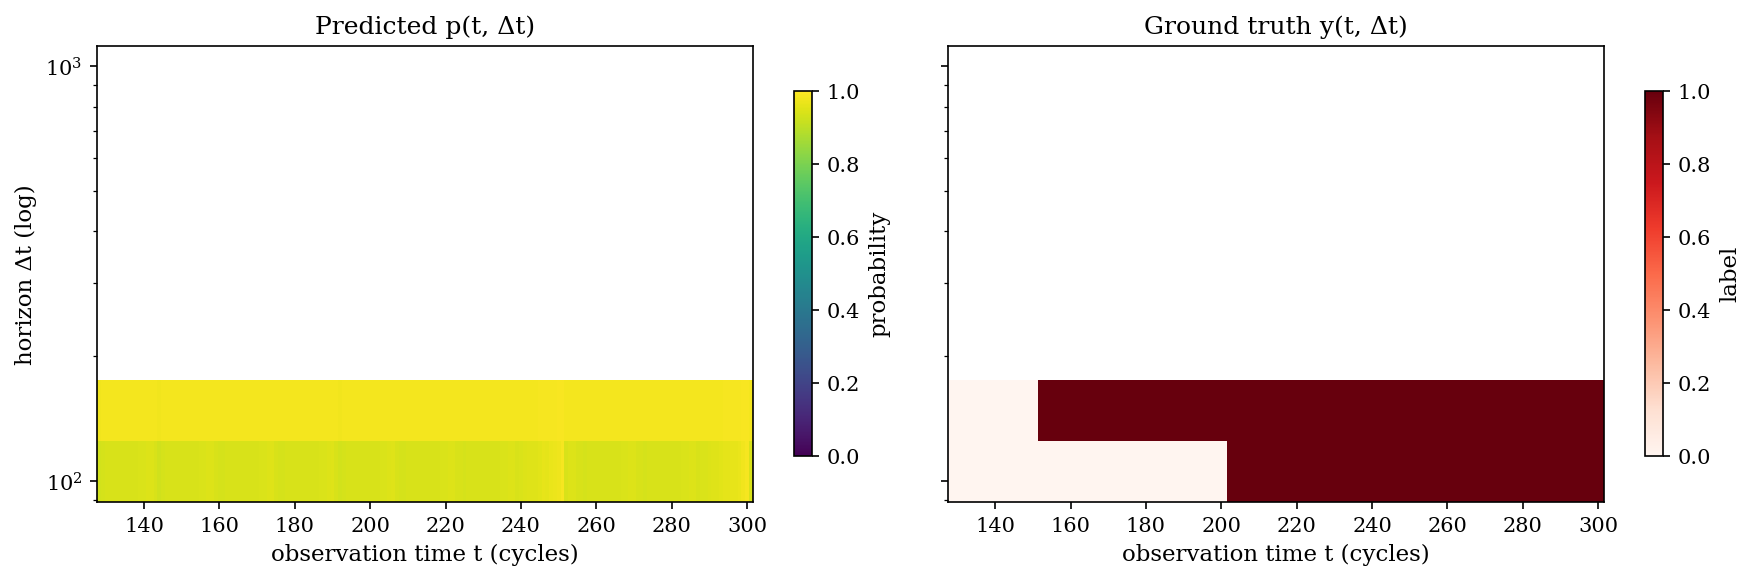
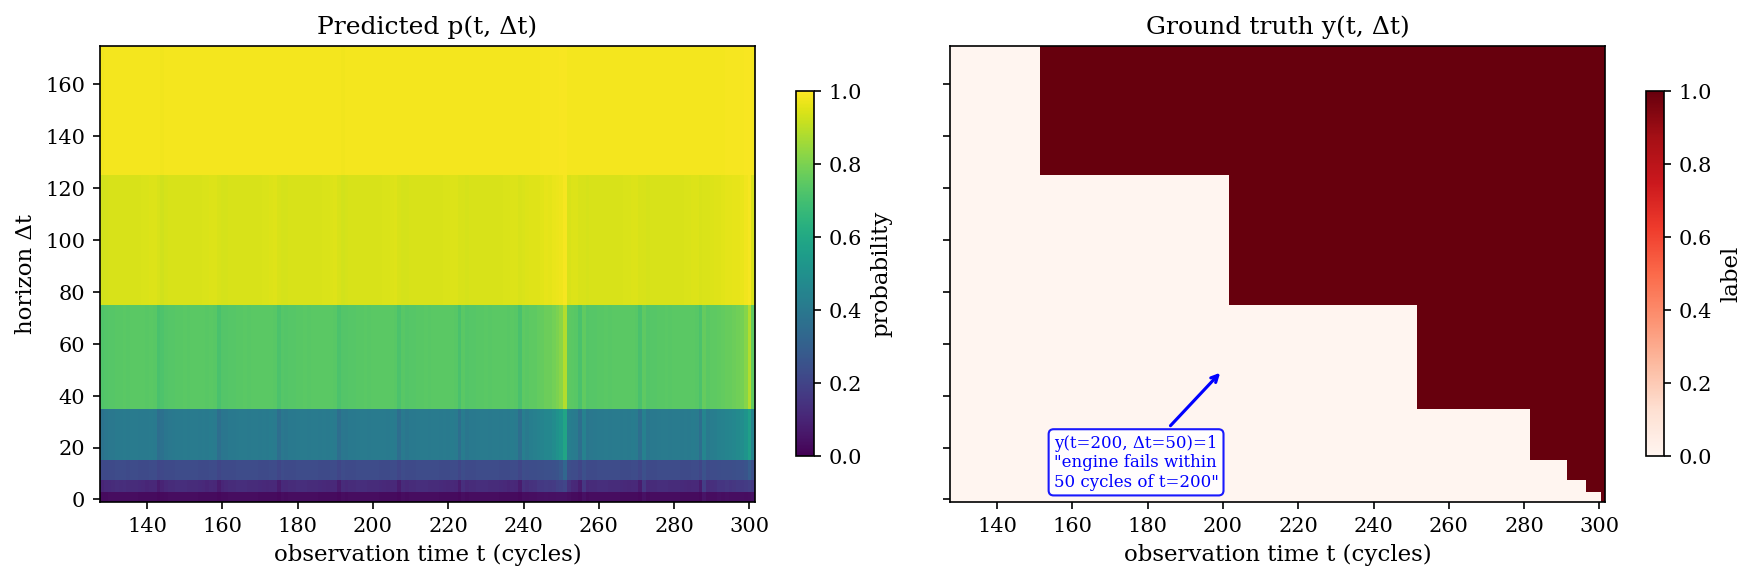
metric notebook: linear y-axis for surface plots (more honest)

diff --git a/fam-jepa/notebooks/28_metric_analysis.html b/fam-jepa/notebooks/28_metric_analysis.html
@@ -212,32 +212,31 @@ window.Quarto = {
 <span id="cb2-5"><a href="#cb2-5" aria-hidden="true" tabindex="-1"></a>fig, axes <span class="op">=</span> plt.subplots(<span class="dv">1</span>, <span class="dv">2</span>, figsize<span class="op">=</span>(<span class="dv">12</span>, <span class="dv">4</span>), sharey<span class="op">=</span><span class="va">True</span>)</span>
 <span id="cb2-6"><a href="#cb2-6" aria-hidden="true" tabindex="-1"></a></span>
 <span id="cb2-7"><a href="#cb2-7" aria-hidden="true" tabindex="-1"></a>im0 <span class="op">=</span> axes[<span class="dv">0</span>].pcolormesh(t_eng, h, p_eng.T, cmap<span class="op">=</span><span class="st">'viridis'</span>, vmin<span class="op">=</span><span class="dv">0</span>, vmax<span class="op">=</span><span class="dv">1</span>, shading<span class="op">=</span><span class="st">'auto'</span>)</span>
-<span id="cb2-8"><a href="#cb2-8" aria-hidden="true" tabindex="-1"></a>axes[<span class="dv">0</span>].set_yscale(<span class="st">'log'</span>)<span class="op">;</span> axes[<span class="dv">0</span>].set_ylabel(<span class="st">'horizon Δt (log)'</span>)</span>
+<span id="cb2-8"><a href="#cb2-8" aria-hidden="true" tabindex="-1"></a>axes[<span class="dv">0</span>].set_ylabel(<span class="st">'horizon Δt'</span>)</span>
 <span id="cb2-9"><a href="#cb2-9" aria-hidden="true" tabindex="-1"></a>axes[<span class="dv">0</span>].set_xlabel(<span class="st">'observation time t (cycles)'</span>)</span>
 <span id="cb2-10"><a href="#cb2-10" aria-hidden="true" tabindex="-1"></a>axes[<span class="dv">0</span>].set_title(<span class="st">'Predicted p(t, Δt)'</span>)</span>
 <span id="cb2-11"><a href="#cb2-11" aria-hidden="true" tabindex="-1"></a>fig.colorbar(im0, ax<span class="op">=</span>axes[<span class="dv">0</span>], label<span class="op">=</span><span class="st">'probability'</span>, shrink<span class="op">=</span><span class="fl">0.8</span>)</span>
 <span id="cb2-12"><a href="#cb2-12" aria-hidden="true" tabindex="-1"></a></span>
 <span id="cb2-13"><a href="#cb2-13" aria-hidden="true" tabindex="-1"></a>im1 <span class="op">=</span> axes[<span class="dv">1</span>].pcolormesh(t_eng, h, y_eng.T, cmap<span class="op">=</span><span class="st">'Reds'</span>, vmin<span class="op">=</span><span class="dv">0</span>, vmax<span class="op">=</span><span class="dv">1</span>, shading<span class="op">=</span><span class="st">'auto'</span>)</span>
-<span id="cb2-14"><a href="#cb2-14" aria-hidden="true" tabindex="-1"></a>axes[<span class="dv">1</span>].set_yscale(<span class="st">'log'</span>)</span>
-<span id="cb2-15"><a href="#cb2-15" aria-hidden="true" tabindex="-1"></a>axes[<span class="dv">1</span>].set_xlabel(<span class="st">'observation time t (cycles)'</span>)</span>
-<span id="cb2-16"><a href="#cb2-16" aria-hidden="true" tabindex="-1"></a>axes[<span class="dv">1</span>].set_title(<span class="st">'Ground truth y(t, Δt)'</span>)</span>
-<span id="cb2-17"><a href="#cb2-17" aria-hidden="true" tabindex="-1"></a>fig.colorbar(im1, ax<span class="op">=</span>axes[<span class="dv">1</span>], label<span class="op">=</span><span class="st">'label'</span>, shrink<span class="op">=</span><span class="fl">0.8</span>)</span>
-<span id="cb2-18"><a href="#cb2-18" aria-hidden="true" tabindex="-1"></a></span>
-<span id="cb2-19"><a href="#cb2-19" aria-hidden="true" tabindex="-1"></a><span class="co"># Annotate one cell</span></span>
-<span id="cb2-20"><a href="#cb2-20" aria-hidden="true" tabindex="-1"></a>axes[<span class="dv">1</span>].annotate(<span class="st">'y(t=200, Δt=50)=1</span><span class="ch">\n</span><span class="st">"engine fails within</span><span class="ch">\n</span><span class="st">50 cycles of t=200"'</span>,</span>
-<span id="cb2-21"><a href="#cb2-21" aria-hidden="true" tabindex="-1"></a>                 xy<span class="op">=</span>(<span class="dv">200</span>, <span class="dv">50</span>), fontsize<span class="op">=</span><span class="dv">8</span>,</span>
-<span id="cb2-22"><a href="#cb2-22" aria-hidden="true" tabindex="-1"></a>                 arrowprops<span class="op">=</span><span class="bu">dict</span>(arrowstyle<span class="op">=</span><span class="st">'-&gt;'</span>, color<span class="op">=</span><span class="st">'blue'</span>, lw<span class="op">=</span><span class="fl">1.5</span>),</span>
-<span id="cb2-23"><a href="#cb2-23" aria-hidden="true" tabindex="-1"></a>                 xytext<span class="op">=</span>(<span class="dv">155</span>, <span class="dv">5</span>), color<span class="op">=</span><span class="st">'blue'</span>,</span>
-<span id="cb2-24"><a href="#cb2-24" aria-hidden="true" tabindex="-1"></a>                 bbox<span class="op">=</span><span class="bu">dict</span>(fc<span class="op">=</span><span class="st">'white'</span>, ec<span class="op">=</span><span class="st">'blue'</span>, alpha<span class="op">=</span><span class="fl">0.9</span>, boxstyle<span class="op">=</span><span class="st">'round,pad=0.3'</span>))</span>
-<span id="cb2-25"><a href="#cb2-25" aria-hidden="true" tabindex="-1"></a></span>
-<span id="cb2-26"><a href="#cb2-26" aria-hidden="true" tabindex="-1"></a>plt.tight_layout()</span>
-<span id="cb2-27"><a href="#cb2-27" aria-hidden="true" tabindex="-1"></a>plt.savefig(<span class="st">'plots/28_surface_walkthrough.png'</span>, dpi<span class="op">=</span><span class="dv">150</span>, bbox_inches<span class="op">=</span><span class="st">'tight'</span>)</span>
-<span id="cb2-28"><a href="#cb2-28" aria-hidden="true" tabindex="-1"></a>plt.show()</span></code></pre></div><button title="Copy to Clipboard" class="code-copy-button"><i class="bi"></i></button></div>
+<span id="cb2-14"><a href="#cb2-14" aria-hidden="true" tabindex="-1"></a>axes[<span class="dv">1</span>].set_xlabel(<span class="st">'observation time t (cycles)'</span>)</span>
+<span id="cb2-15"><a href="#cb2-15" aria-hidden="true" tabindex="-1"></a>axes[<span class="dv">1</span>].set_title(<span class="st">'Ground truth y(t, Δt)'</span>)</span>
+<span id="cb2-16"><a href="#cb2-16" aria-hidden="true" tabindex="-1"></a>fig.colorbar(im1, ax<span class="op">=</span>axes[<span class="dv">1</span>], label<span class="op">=</span><span class="st">'label'</span>, shrink<span class="op">=</span><span class="fl">0.8</span>)</span>
+<span id="cb2-17"><a href="#cb2-17" aria-hidden="true" tabindex="-1"></a></span>
+<span id="cb2-18"><a href="#cb2-18" aria-hidden="true" tabindex="-1"></a><span class="co"># Annotate one cell</span></span>
+<span id="cb2-19"><a href="#cb2-19" aria-hidden="true" tabindex="-1"></a>axes[<span class="dv">1</span>].annotate(<span class="st">'y(t=200, Δt=50)=1</span><span class="ch">\n</span><span class="st">"engine fails within</span><span class="ch">\n</span><span class="st">50 cycles of t=200"'</span>,</span>
+<span id="cb2-20"><a href="#cb2-20" aria-hidden="true" tabindex="-1"></a>                 xy<span class="op">=</span>(<span class="dv">200</span>, <span class="dv">50</span>), fontsize<span class="op">=</span><span class="dv">8</span>,</span>
+<span id="cb2-21"><a href="#cb2-21" aria-hidden="true" tabindex="-1"></a>                 arrowprops<span class="op">=</span><span class="bu">dict</span>(arrowstyle<span class="op">=</span><span class="st">'-&gt;'</span>, color<span class="op">=</span><span class="st">'blue'</span>, lw<span class="op">=</span><span class="fl">1.5</span>),</span>
+<span id="cb2-22"><a href="#cb2-22" aria-hidden="true" tabindex="-1"></a>                 xytext<span class="op">=</span>(<span class="dv">155</span>, <span class="dv">5</span>), color<span class="op">=</span><span class="st">'blue'</span>,</span>
+<span id="cb2-23"><a href="#cb2-23" aria-hidden="true" tabindex="-1"></a>                 bbox<span class="op">=</span><span class="bu">dict</span>(fc<span class="op">=</span><span class="st">'white'</span>, ec<span class="op">=</span><span class="st">'blue'</span>, alpha<span class="op">=</span><span class="fl">0.9</span>, boxstyle<span class="op">=</span><span class="st">'round,pad=0.3'</span>))</span>
+<span id="cb2-24"><a href="#cb2-24" aria-hidden="true" tabindex="-1"></a></span>
+<span id="cb2-25"><a href="#cb2-25" aria-hidden="true" tabindex="-1"></a>plt.tight_layout()</span>
+<span id="cb2-26"><a href="#cb2-26" aria-hidden="true" tabindex="-1"></a>plt.savefig(<span class="st">'plots/28_surface_walkthrough.png'</span>, dpi<span class="op">=</span><span class="dv">150</span>, bbox_inches<span class="op">=</span><span class="st">'tight'</span>)</span>
+<span id="cb2-27"><a href="#cb2-27" aria-hidden="true" tabindex="-1"></a>plt.show()</span></code></pre></div><button title="Copy to Clipboard" class="code-copy-button"><i class="bi"></i></button></div>
 </details>
 <div class="cell-output cell-output-display">
 <div id="surface-walkthrough" class="quarto-figure quarto-figure-center anchored">
 <figure class="figure">
-<p><img src="28_metric_analysis_files/figure-html/surface-walkthrough-output-1.png" width="1520" height="504" class="figure-img"></p>
+<p><img src="28_metric_analysis_files/figure-html/surface-walkthrough-output-1.png" width="1521" height="504" class="figure-img"></p>
 <figcaption>FD001 engine 49: predicted surface (left) vs ground truth (right). Each cell p(t, Δt) answers: ‘what is the probability of failure within Δt cycles, given observations up to cycle t?’ Ground truth is binary: either the engine fails within that window (yellow=1) or it doesn’t (dark=0).</figcaption>
 </figure>
 </div>
